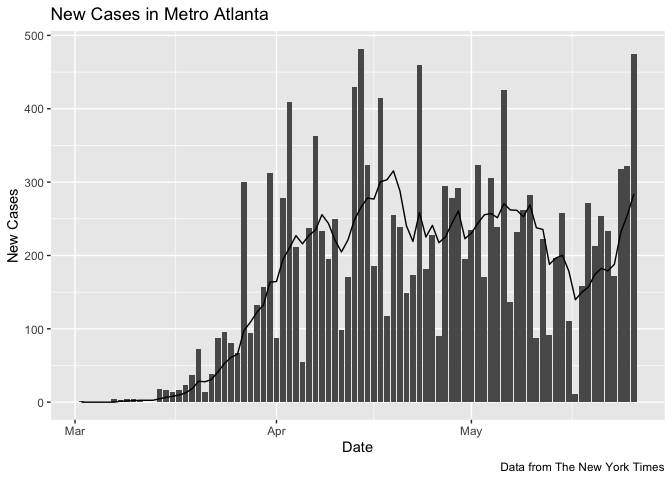
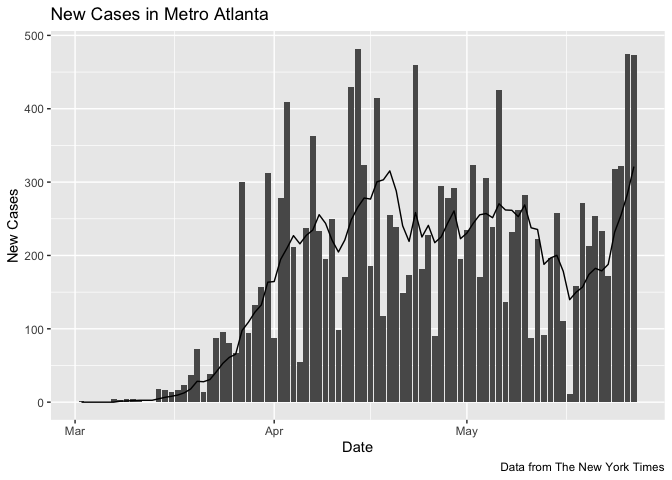
Updated data

Changed region(s): [[0.2188, 0.0938, 0.9375, 0.8438], [0.6562, 0.875, 0.7188, 0.9062], [0.375, 0.875, 0.4375, 0.9062]]

diff --git a/Metro_Atlanta_COVID.md b/Metro_Atlanta_COVID.md
@@ -16,7 +16,7 @@ It’s hard to know how to interpret these numbers since there are major
 known unknowns. Neither confirmed cases nor deaths can be said to be
 reliable counts of the true numbers.
 
-Data current as of May 27, 2020.
+Data current as of May 28, 2020.
 
 # Metro Atlanta
 
